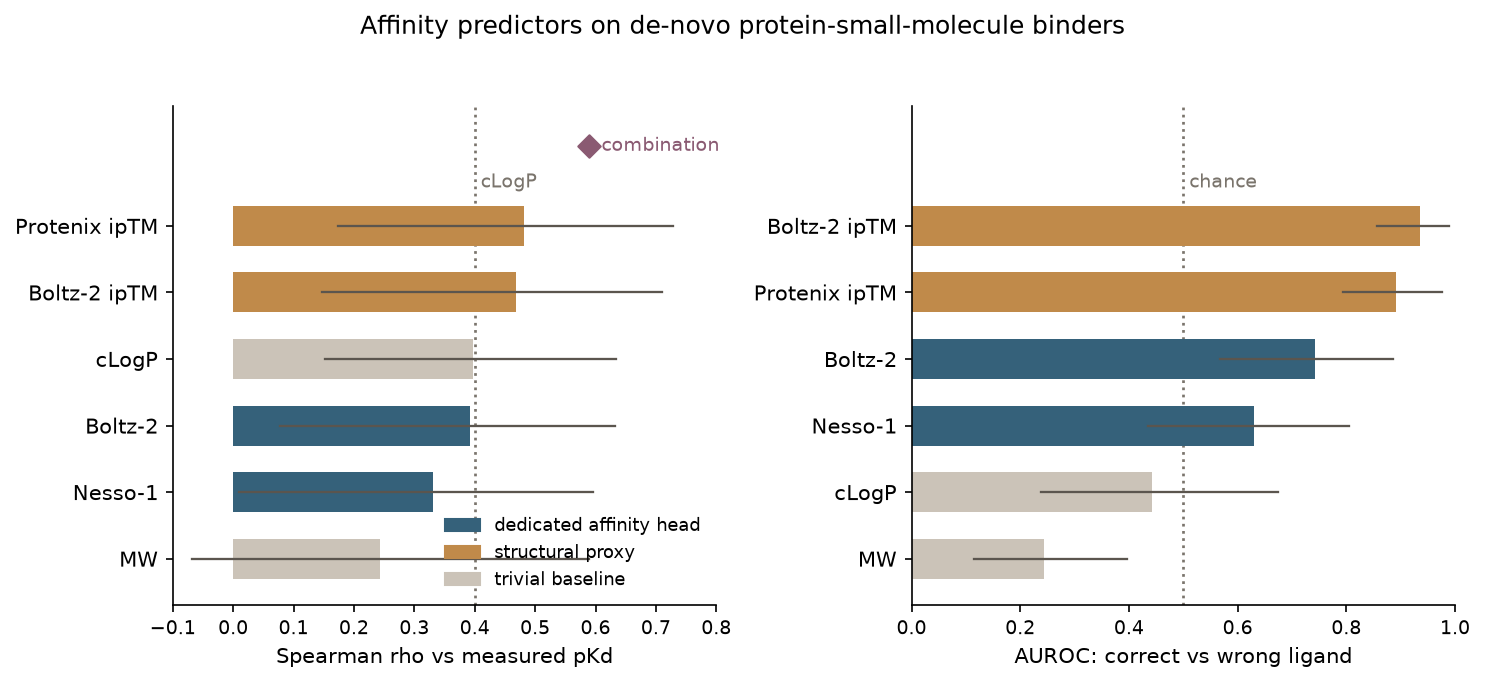
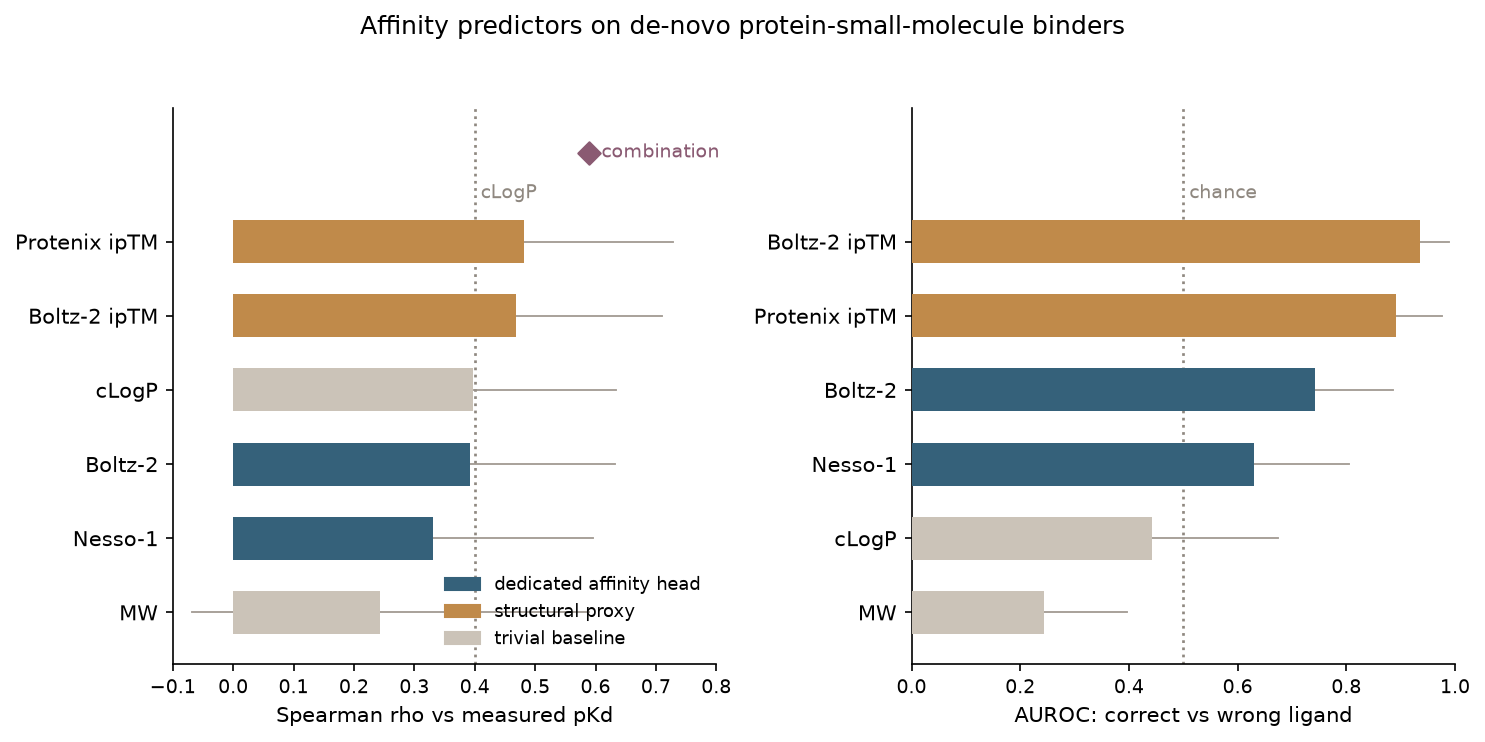
Declutter figure: lighter recessed CI whiskers, more row spacing

diff --git a/scripts/make_figure.py b/scripts/make_figure.py
@@ -19,7 +19,7 @@ SHOW = [("boltz-2", "Boltz-2", "aff"), ("nesso-1", "Nesso-1", "aff"),
         ("boltz-2-iptm", "Boltz-2 ipTM", "prox"), ("protenix-iptm", "Protenix ipTM", "prox"),
         ("clogp", "cLogP", "base"), ("molecular-weight", "MW", "base")]
 COL = {"aff": "#35617a", "prox": "#c08a4a", "base": "#cbc3b8"}   # muted slate / ochre / stone
-ACCENT, REF, WHISK = "#8a5a72", "#7a746c", "#5b554e"
+ACCENT, REF, WHISK = "#8a5a72", "#8f8880", "#9b938a"            # whiskers light so bars read first
 LABEL = {"aff": "dedicated affinity head", "prox": "structural proxy", "base": "trivial baseline"}
 COMBO_RHO = 0.59   # leave-one-out CV, from score.py
 
@@ -28,8 +28,8 @@ def bars(ax, data, ref, ref_label, xlabel, xlim, combo=None):
     data.sort(key=lambda t: t[1])
     n = len(data); ys = range(n)
     for y, (lab, v, lo, hi, cat) in zip(ys, data):
-        ax.barh(y, v, color=COL[cat], height=0.6, zorder=2)
-        ax.plot([lo, hi], [y, y], color=WHISK, lw=1.1, zorder=3)
+        ax.barh(y, v, color=COL[cat], height=0.58, zorder=3)
+        ax.plot([lo, hi], [y, y], color=WHISK, lw=0.9, alpha=0.9, zorder=2)
     ax.axvline(ref, ls=":", lw=1.3, color=REF, zorder=1)
     ax.text(ref, n - 0.35, f" {ref_label}", color=REF, fontsize=9, ha="left", va="center")
     if combo is not None:
@@ -53,7 +53,7 @@ def main():
         sx, sl = zip(*[(r[m], r["is_binder"]) for r in rows if r.get(m) is not None])
         spec.append((lab, auroc(list(sx), list(sl)), *bootstrap_ci(list(sx), list(sl), auroc), cat))
 
-    fig, (a, b) = plt.subplots(1, 2, figsize=(10, 4.6))
+    fig, (a, b) = plt.subplots(1, 2, figsize=(10, 5.0))
     bars(a, reg, 0.40, "cLogP", "Spearman rho vs measured pKd", (-0.1, 0.8), combo=COMBO_RHO)
     bars(b, spec, 0.5, "chance", "AUROC: correct vs wrong ligand", (0.0, 1.0))
     handles = [plt.Rectangle((0, 0), 1, 1, color=COL[c]) for c in ("aff", "prox", "base")]
